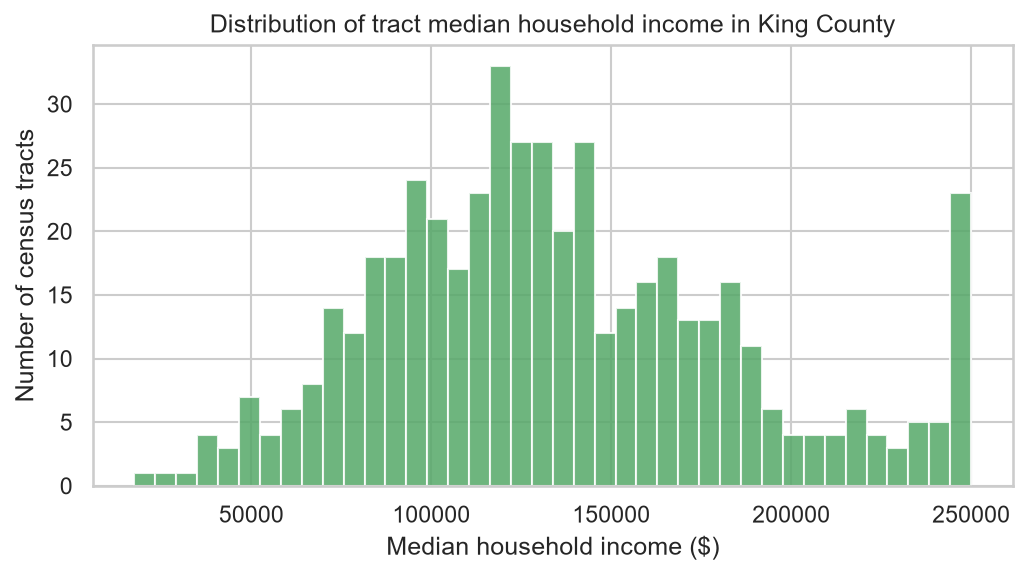
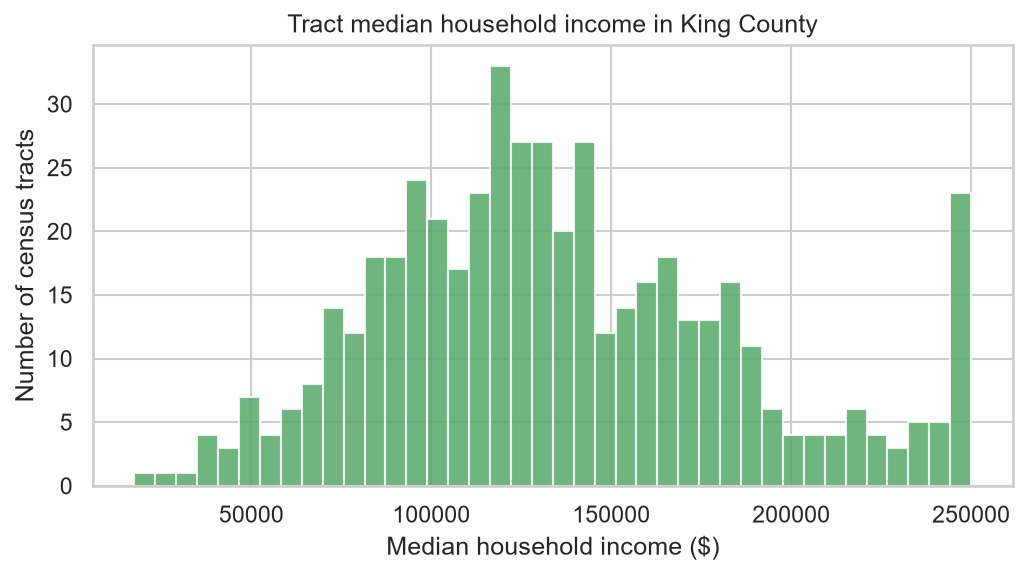
Add type annotations, file headers, and fix 79-char lines to meet the code quality guide

Changed region(s): [[0.1868, 0.0296, 0.8716, 0.0591]]

diff --git a/eda.py b/eda.py
@@ -1,4 +1,6 @@
 """
+Mark Wang and William Wang
+CSE 163
 Exploratory analysis of Seattle building permit review durations.
 
 The project asks where delays happen in Seattle's permitting pipeline and
@@ -10,6 +12,8 @@ reported before cleaning; every summary, figure, and test after that point
 uses the cleaned data with negative durations removed.
 """
 
+from __future__ import annotations
+
 import os
 import zipfile
 
@@ -18,6 +22,7 @@ import matplotlib.pyplot as plt
 import numpy as np
 import pandas as pd
 import seaborn as sns
+from matplotlib.figure import Figure
 from scipy import stats
 
 DATA = "data"
@@ -46,7 +51,7 @@ REVIEW_QUANT = ["ReviewCycle", "step_days"]
 ACS_QUANT = ["med_income", "population"]
 
 
-def _to_numeric(series):
+def _to_numeric(series: pd.Series) -> pd.Series:
     """Turn a column with comma-formatted strings into floats.
 
     Socrata returns some numeric fields as strings like '4,318', so they have
@@ -56,12 +61,12 @@ def _to_numeric(series):
                          errors="coerce")
 
 
-def _parse_dates(series):
+def _parse_dates(series: pd.Series) -> pd.Series:
     """Parse either ISO or '2018 Aug 31 12:00:00 AM' style timestamps."""
     return pd.to_datetime(series, errors="coerce", format="mixed")
 
 
-def load_permits():
+def load_permits() -> pd.DataFrame:
     """Load and clean formats in the building permits table."""
     df = pd.read_csv(os.path.join(DATA, "building_permits.csv"),
                      usecols=PERMIT_COLS, low_memory=False)
@@ -74,7 +79,7 @@ def load_permits():
     return df
 
 
-def load_reviews():
+def load_reviews() -> pd.DataFrame:
     """Load and clean formats in the plan review table.
 
     The raw CSV has a few rows with unterminated quotes, so use the Python
@@ -95,9 +100,10 @@ def load_reviews():
     return df
 
 
-def load_acs():
+def load_acs() -> pd.DataFrame:
     """Load census tract demographics; negatives are census missing codes."""
-    df = pd.read_csv(os.path.join(DATA, "acs_tracts.csv"), dtype={"GEOID": str})
+    df = pd.read_csv(os.path.join(DATA, "acs_tracts.csv"),
+                     dtype={"GEOID": str})
     for col in df.columns:
         if col not in ("GEOID", "NAME"):
             df[col] = pd.to_numeric(df[col], errors="coerce")
@@ -105,7 +111,7 @@ def load_acs():
     return df
 
 
-def seven_number_summary(series):
+def seven_number_summary(series: pd.Series) -> dict:
     """Return mean, std, min, Q1, median, Q3, max as a single row."""
     s = series.dropna()
     return {
@@ -119,7 +125,7 @@ def seven_number_summary(series):
     }
 
 
-def missingness(df):
+def missingness(df: pd.DataFrame) -> pd.DataFrame:
     """Return a per-column missing data table sorted by missingness."""
     return pd.DataFrame({
         "column": df.columns,
@@ -128,7 +134,8 @@ def missingness(df):
     }).sort_values("missing", ascending=False)
 
 
-def quantitative_summaries(df, cols):
+def quantitative_summaries(df: pd.DataFrame,
+                           cols: list[str]) -> pd.DataFrame:
     """Build a table of seven-number summaries for the given columns."""
     rows = []
     for col in cols:
@@ -138,19 +145,21 @@ def quantitative_summaries(df, cols):
     return pd.DataFrame(rows).set_index("variable").round(2)
 
 
-def categorical_counts(series, name):
+def categorical_counts(series: pd.Series, name: str) -> pd.DataFrame:
     """Return value counts as a tidy two-column table."""
     out = series.value_counts(dropna=False).rename_axis(name)
     return out.reset_index(name="count")
 
 
-def save_figure(fig, name):
+def save_figure(fig: Figure, name: str) -> None:
+    """Write a figure to the figures directory and close it."""
     fig.tight_layout()
     fig.savefig(os.path.join(FIG, name), dpi=150, bbox_inches="tight")
     plt.close(fig)
 
 
-def plot_duration_histogram(df, col, title, filename):
+def plot_duration_histogram(df: pd.DataFrame, col: str, title: str,
+                            filename: str) -> None:
     """Log-scaled histogram for a right-skewed duration variable."""
     fig, ax = plt.subplots(figsize=(7, 4))
     vals = df[col].dropna()
@@ -162,21 +171,20 @@ def plot_duration_histogram(df, col, title, filename):
     save_figure(fig, filename)
 
 
-def plot_group_boxplot(df, col, group, title, filename,
-                       ylabel="Days", xlabel=None):
+def plot_group_boxplot(df: pd.DataFrame, col: str, group: str, title: str,
+                       filename: str, ylabel: str = "Days") -> None:
     """Boxplots comparing one variable across the groups of another."""
     fig, ax = plt.subplots(figsize=(6, 4))
     data = df.dropna(subset=[col, group])
     sns.boxplot(data=data, x=group, y=col, hue=group, legend=False,
                 ax=ax, palette="muted")
     ax.set_ylabel(ylabel)
-    if xlabel:
-        ax.set_xlabel(xlabel)
     ax.set_title(title)
     save_figure(fig, filename)
 
 
-def plot_category_counts(counts, title, xlabel, filename, n=15):
+def plot_category_counts(counts: pd.DataFrame, title: str, xlabel: str,
+                         filename: str, n: int = 15) -> None:
     """Horizontal bar chart of the most common categories."""
     top = counts.head(n)
     fig, ax = plt.subplots(figsize=(6, max(3, 0.3 * len(top))))
@@ -187,16 +195,17 @@ def plot_category_counts(counts, title, xlabel, filename, n=15):
     save_figure(fig, filename)
 
 
-def plot_income_histogram(acs, filename):
+def plot_income_histogram(acs: pd.DataFrame, filename: str) -> None:
+    """Histogram of tract median household income."""
     fig, ax = plt.subplots(figsize=(7, 4))
     ax.hist(acs["med_income"].dropna(), bins=40, color="#55A868", alpha=0.85)
     ax.set_xlabel("Median household income ($)")
     ax.set_ylabel("Number of census tracts")
-    ax.set_title("Distribution of tract median household income in King County")
+    ax.set_title("Tract median household income in King County")
     save_figure(fig, filename)
 
 
-def plot_race_composition(acs, filename):
+def plot_race_composition(acs: pd.DataFrame, filename: str) -> None:
     """Racial composition of tracts, grouped by income quintile.
 
     One bar per tract is unreadable at 495 tracts, so the composition is
@@ -219,7 +228,8 @@ def plot_race_composition(acs, filename):
     save_figure(fig, filename)
 
 
-def plot_cycle_correction_rate(reviews, filename):
+def plot_cycle_correction_rate(reviews: pd.DataFrame,
+                               filename: str) -> None:
     """Share of review steps ending in corrections, by review cycle."""
     rev = reviews.dropna(subset=["ReviewCycle"]).copy()
     rev["corrections"] = rev["ReviewResultDesc"] == "Corrections Required"
@@ -229,9 +239,10 @@ def plot_cycle_correction_rate(reviews, filename):
     labels = g.index.astype(int)
     sns.barplot(x=labels, y=g["mean"], hue=labels, legend=False, ax=ax,
                 palette="flare")
-    for i, (cycle, row) in enumerate(g.iterrows()):
-        ax.text(i, row["mean"] + 0.015, f"n={int(row['size']):,}",
-                ha="center", fontsize=8)
+    for i, (rate, count) in enumerate(zip(g["mean"].values,
+                                          g["size"].values)):
+        ax.text(i, rate + 0.015, f"n={int(count):,}", ha="center",
+                fontsize=8)
     ax.set_xlabel("Review cycle")
     ax.set_ylabel("Share of steps requiring corrections")
     ax.set_ylim(0, 0.72)
@@ -239,7 +250,7 @@ def plot_cycle_correction_rate(reviews, filename):
     save_figure(fig, filename)
 
 
-def load_tracts():
+def load_tracts() -> gpd.GeoDataFrame:
     """Read the 2020 tract geometry and keep King County only."""
     zpath = os.path.join(DATA, "tl_2020_53_tract.zip")
     with zipfile.ZipFile(zpath) as z:
@@ -249,7 +260,8 @@ def load_tracts():
     return tracts[tracts["COUNTYFP"] == "033"].to_crs(epsg=4326)
 
 
-def spatial_join_permits(permits, tracts):
+def spatial_join_permits(permits: pd.DataFrame,
+                         tracts: gpd.GeoDataFrame) -> gpd.GeoDataFrame:
     """Attach a census tract GEOID to each permit using its coordinates."""
     located = permits.dropna(subset=["Latitude", "Longitude"]).copy()
     pts = gpd.GeoDataFrame(
@@ -257,12 +269,13 @@ def spatial_join_permits(permits, tracts):
         geometry=gpd.points_from_xy(located["Longitude"], located["Latitude"]),
         crs="EPSG:4326",
     )
-    joined = gpd.sjoin(pts, tracts[["GEOID", "geometry"]], how="left",
-                       predicate="within")
-    return joined
+    return gpd.sjoin(pts, tracts[["GEOID", "geometry"]], how="left",
+                     predicate="within")
 
 
-def plot_duration_choropleth(permit_tracts, tracts, filename):
+def plot_duration_choropleth(permit_tracts: gpd.GeoDataFrame,
+                             tracts: gpd.GeoDataFrame,
+                             filename: str) -> None:
     """Map the median plan review duration by census tract."""
     med = permit_tracts.groupby("GEOID")["TotalDaysPlanReview"].median()
     merged = tracts[["GEOID", "geometry"]].merge(med, on="GEOID", how="left")
@@ -275,7 +288,8 @@ def plot_duration_choropleth(permit_tracts, tracts, filename):
     save_figure(fig, filename)
 
 
-def plot_income_vs_duration(permit_tracts, filename):
+def plot_income_vs_duration(permit_tracts: gpd.GeoDataFrame,
+                            filename: str) -> None:
     """Boxplots of review duration across income quintiles."""
     med = permit_tracts.groupby("GEOID")["TotalDaysPlanReview"].median()
     income = permit_tracts.groupby("GEOID")["med_income"].median()
@@ -291,7 +305,7 @@ def plot_income_vs_duration(permit_tracts, filename):
     save_figure(fig, filename)
 
 
-def print_missingness_deep_dive(permits):
+def print_missingness_deep_dive(permits: pd.DataFrame) -> None:
     """Compare permits with and without a duration on status, year, type.
 
     The 82.6% missingness claim in the report needs evidence, so this breaks
@@ -312,7 +326,8 @@ def print_missingness_deep_dive(permits):
     print(t[t["size"] >= 500].sort_values("mean").round(3).to_string())
 
 
-def run_statistical_tests(permits, reviews):
+def run_statistical_tests(permits: pd.DataFrame,
+                          reviews: pd.DataFrame) -> dict:
     """Run the hypothesis tests tied to the research questions."""
     results = {}
 
@@ -363,7 +378,7 @@ def run_statistical_tests(permits, reviews):
     # is the first result of each permit-review-type pair, which avoids
     # counting every correction cycle of the same permit as separate
     # evidence. Residual dependence across types within one permit remains
-    # and is stated as a limitation.
+    # and is stated as a limitation in the report.
     rev = reviews.dropna(subset=["ReviewCycle"]).sort_values("ReviewCycle")
     rev = rev.drop_duplicates(subset=["PermitNum", "ReviewType"],
                               keep="first")
@@ -373,11 +388,11 @@ def run_statistical_tests(permits, reviews):
                                               "Other")
     tab = pd.crosstab(rev["type_top"], rev["corrections"])
     chi2, p, dof, expected = stats.chi2_contingency(tab)
+    rates = (tab[True] / (tab[True] + tab[False])).sort_values(
+        ascending=False)
     results["chi_square"] = {"chi2": chi2, "p": p, "dof": dof,
                              "min_expected": expected.min(),
                              "n_units": len(tab)}
-    rates = (tab[True] / (tab[True] + tab[False])).sort_values(
-        ascending=False)
     results["chi_rates"] = rates
     print("Chi-square (review type vs first-pass corrections outcome):")
     print(f"  units={len(tab)} chi2={chi2:.1f} p={p:.3e} dof={dof} "

diff --git a/test_eda.py b/test_eda.py
@@ -1,17 +1,21 @@
 """
+Mark Wang and William Wang
+CSE 163
 Tests for the cleaning and summary helpers in eda.py.
 
 Each test feeds a small hand-built input to a function and asserts the exact
 output, so the tests stay fast and don't depend on the full datasets.
 """
 
+from __future__ import annotations
+
 import pandas as pd
 
 import eda
 
 
-def test_to_numeric():
-    """Comma-formatted strings convert to floats; junk becomes NaN."""
+def test_to_numeric() -> None:
+    """Tests _to_numeric strips commas and turns junk into NaN."""
     out = eda._to_numeric(pd.Series(["4,318", "709", None, "abc"]))
     assert out.iloc[0] == 4318.0
     assert out.iloc[1] == 709.0
@@ -19,8 +23,8 @@ def test_to_numeric():
     assert pd.isna(out.iloc[3])
 
 
-def test_parse_dates():
-    """Both Socrata timestamp styles parse to the right year."""
+def test_parse_dates() -> None:
+    """Tests _parse_dates handles both Socrata timestamp styles."""
     out = eda._parse_dates(
         pd.Series(["2018 Aug 31 12:00:00 AM", "2006-09-29", "not a date"]))
     assert out.iloc[0].year == 2018
@@ -28,8 +32,8 @@ def test_parse_dates():
     assert pd.isna(out.iloc[2])
 
 
-def test_seven_number_summary():
-    """Summary statistics match hand-computed values on a known vector."""
+def test_seven_number_summary() -> None:
+    """Tests seven_number_summary on a known vector."""
     result = eda.seven_number_summary(pd.Series([1, 2, 3, 4, 5]))
     assert result["mean"] == 3.0
     assert result["median"] == 3.0
@@ -39,8 +43,8 @@ def test_seven_number_summary():
     assert abs(result["q3"] - 4.0) < 1e-9
 
 
-def test_missingness():
-    """Missing counts and percentages are computed per column."""
+def test_missingness() -> None:
+    """Tests missingness computes per-column counts and percentages."""
     frame = pd.DataFrame({"a": [1, None, 3], "b": [None, None, None]})
     table = eda.missingness(frame)
     row_a = table[table["column"] == "a"]
@@ -50,8 +54,8 @@ def test_missingness():
     assert abs(row_a["pct"].iloc[0] - 33.33) < 0.01
 
 
-def test_categorical_counts():
-    """Value counts come back as a two-column table with a total."""
+def test_categorical_counts() -> None:
+    """Tests categorical_counts returns a two-column table with a total."""
     out = eda.categorical_counts(pd.Series(["x", "x", "y"]), "label")
     assert out["count"].sum() == 3
     assert set(out["label"]) == {"x", "y"}
